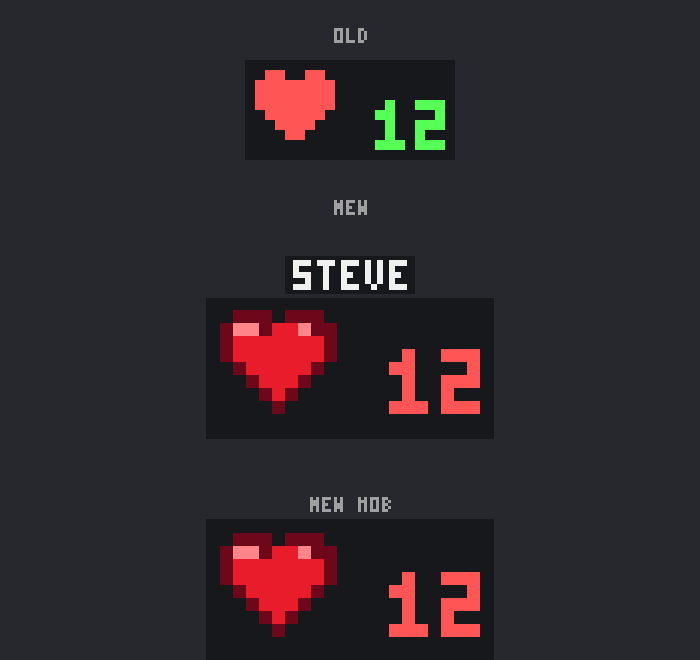
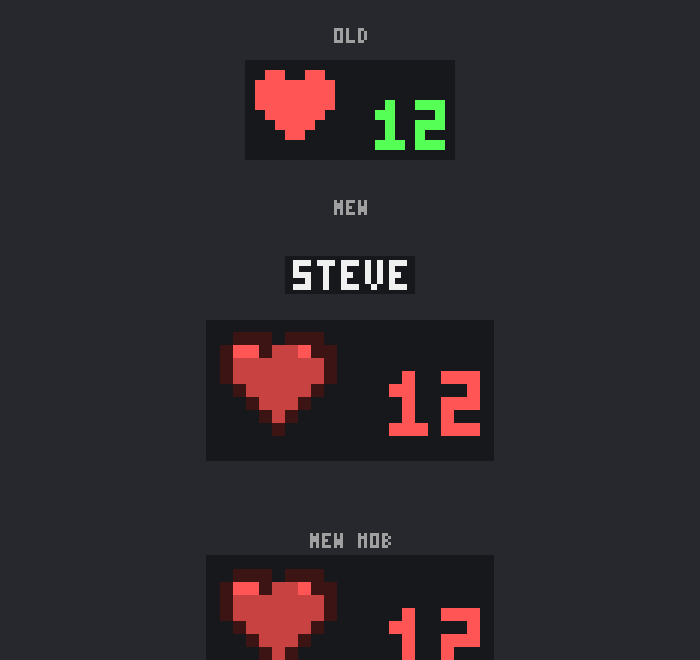
Fix HP tag rendering: opaque tinted heart, 2x crisp scale, non-overlapping drop

diff --git a/src/main/java/ru/telishot/playerhealth/mixin/client/EntityRendererNameTagMixin.java b/src/main/java/ru/telishot/playerhealth/mixin/client/EntityRendererNameTagMixin.java
@@ -27,13 +27,17 @@ import ru.telishot.playerhealth.HealthInfo;
  * Безымянным мобам HP становится самой табличкой.
  *
  * <p>Используется только чистый Mixin ({@code @Inject} + {@code @Redirect}),
- * MixinExtras не требуется.
+ * MixinExtras не требуется. Строка HP рисуется в целочисленном масштабе 2x
+ * относительно ванильных табличек: дробный масштаб размывает пиксели глифа,
+ * а целочисленный даёт чёткие края. Под niком строка HP опускается на 0.55
+ * (в масштабированных координатах — по высоте ванильной строки), чтобы
+ * фоновые плашки табличек не накладывались друг на друга.
  */
 @Mixin(EntityRenderer.class)
 public abstract class EntityRendererNameTagMixin {
 
     @Unique
-    private static final float playerhealth$HP_SCALE = 1.75F;
+    private static final float playerhealth$HP_SCALE = 2.0F;
 
     @Unique
     private EntityRenderState playerhealth$currentState;
@@ -67,7 +71,7 @@ public abstract class EntityRendererNameTagMixin {
             } else if (playerhealth$currentState.nameTag == name) {
                 instance.submitNameTag(poseStack, attachment, offset, name,
                         false, lightCoords, distanceToCameraSq, camera);
-                playerhealth$submitScaled(instance, poseStack, attachment, offset, 0.35F, hpComponent,
+                playerhealth$submitScaled(instance, poseStack, attachment, offset, 0.55F, hpComponent,
                         lightCoords, distanceToCameraSq, camera);
             } else {
                 instance.submitNameTag(poseStack, attachment, offset, name,

diff --git a/src/main/java/ru/telishot/playerhealth/HpText.java b/src/main/java/ru/telishot/playerhealth/HpText.java
@@ -28,6 +28,7 @@ public final class HpText {
     public static MutableComponent component(float hp, float max, float absorption) {
         float shown = hp + absorption;
         return Component.literal("\uE000").withStyle(HEART_STYLE)
+                .withStyle(ChatFormatting.RED)
                 .append(Component.literal(" " + format(shown)).withStyle(ChatFormatting.RED));
     }
 
